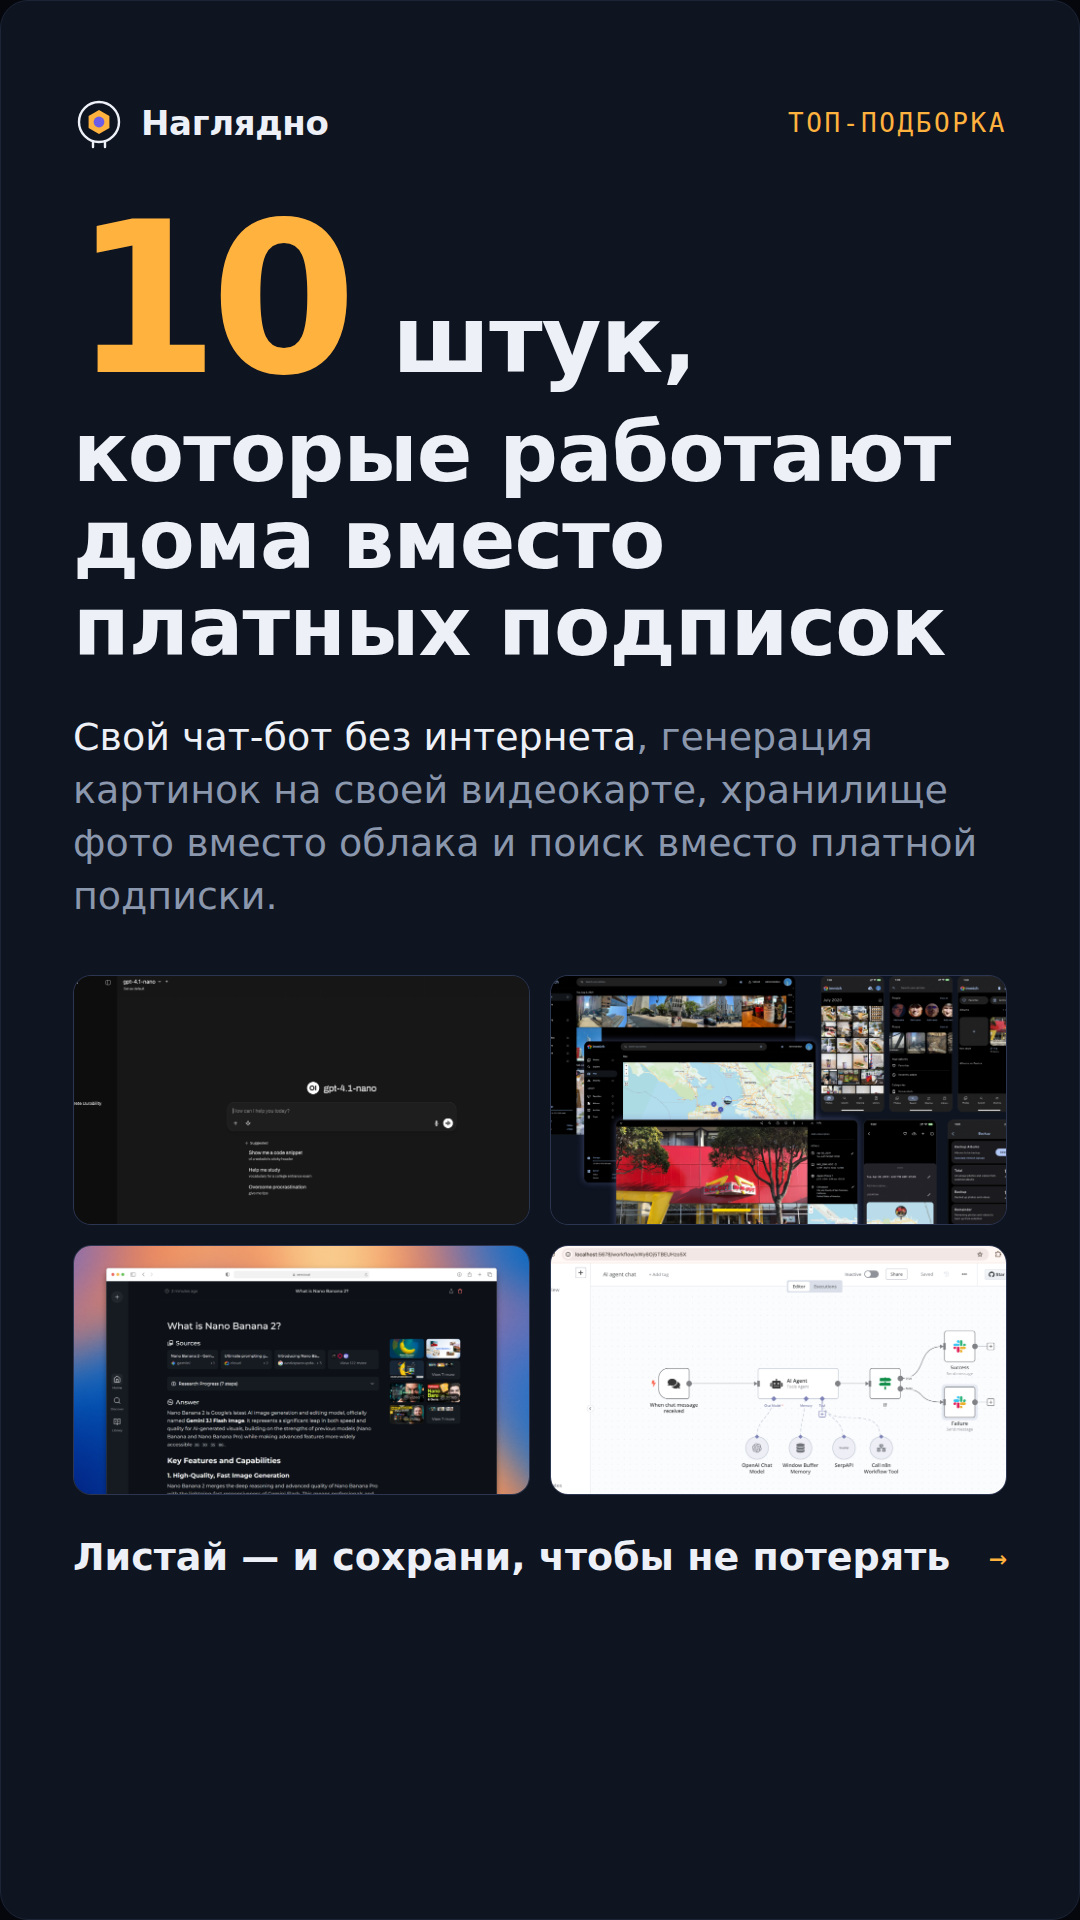
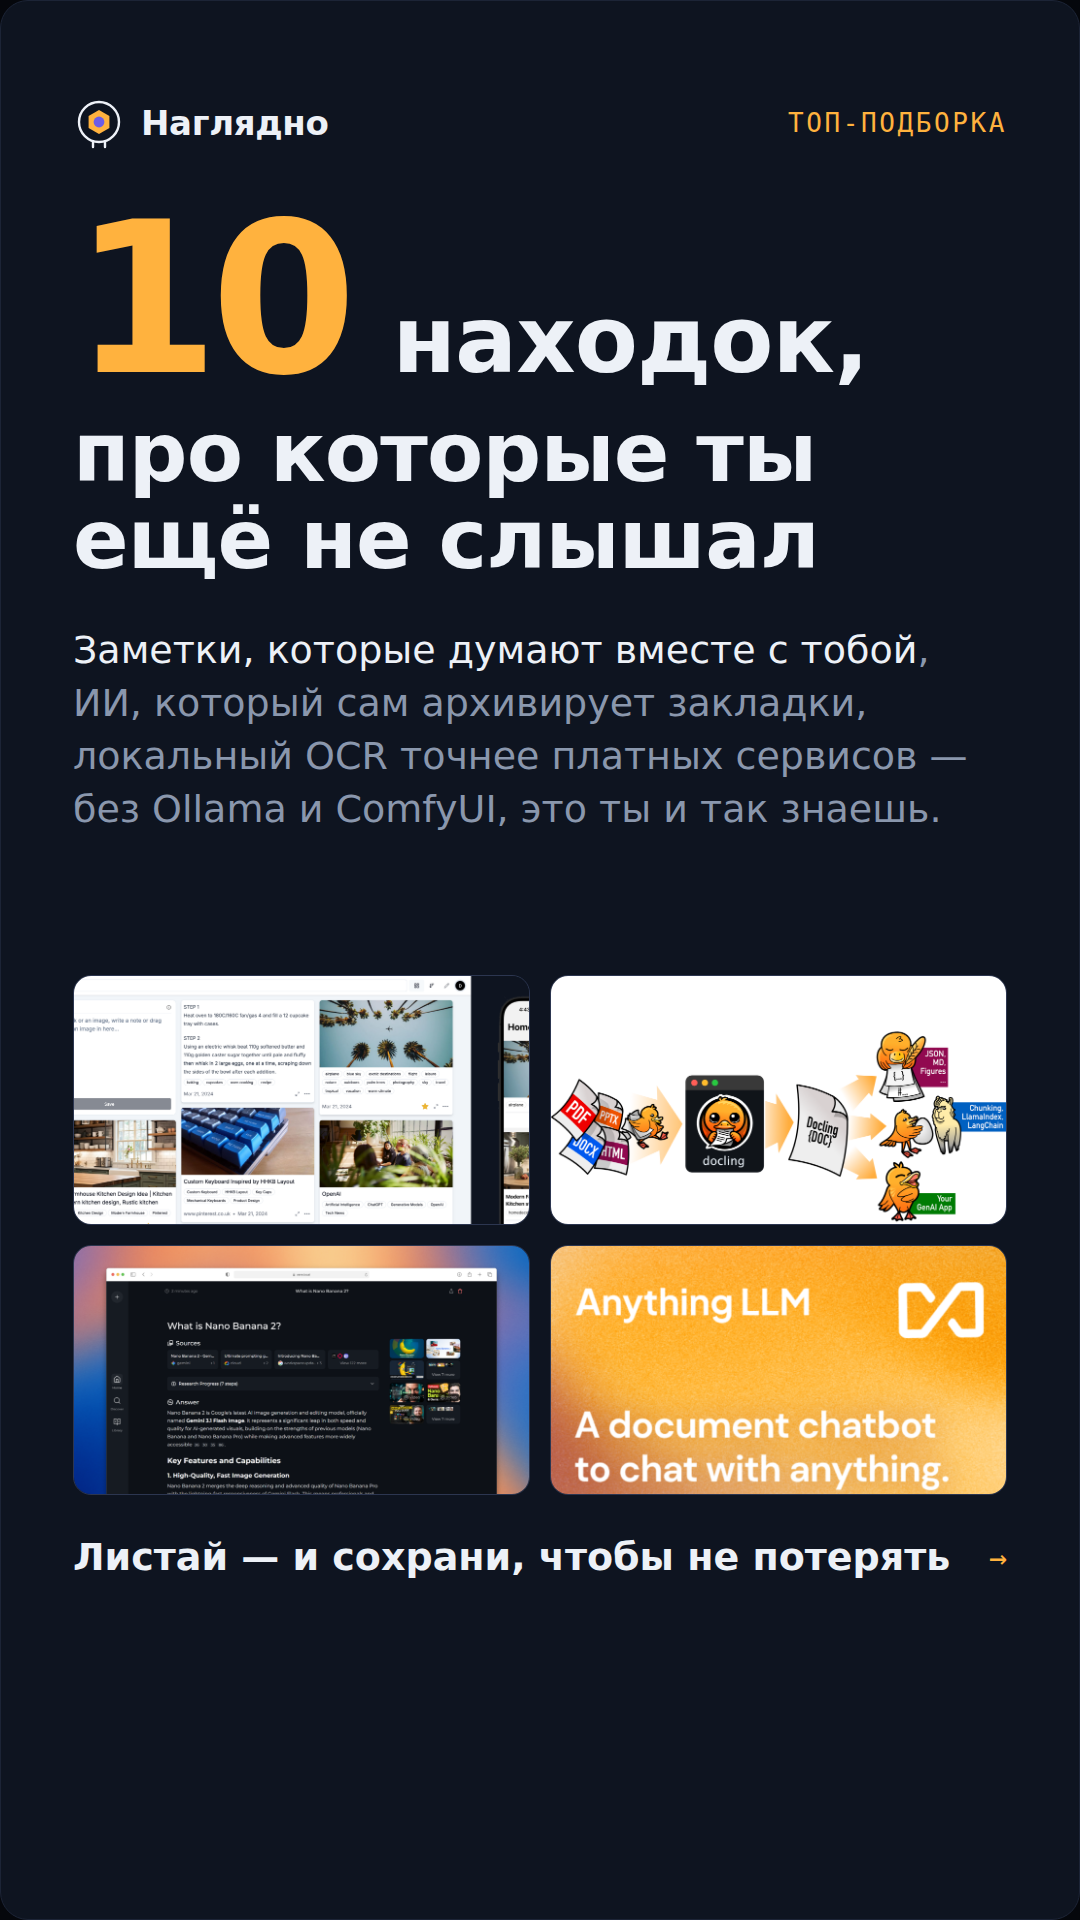
Заменить выпуск на менее известные локальные ИИ-находки
Ollama, ComfyUI, whisper.cpp, n8n, Immich, Open WebUI, Fooocus,
Jan, LocalSend, Paperless-ngx — всё это самые растиражированные
проекты в опенсорс-ИИ, их видел каждый, кто гуглил тему хоть раз.
Канал обещает вау-эффект открытия, а не пересказ известного.

Заменены на Reor (заметки со смысловыми связями), Docling
(документы в структурированный текст), Surya (OCR для любого
языка и разметки), Karakeep (ИИ сам архивирует и тегирует
закладки), Bark (речь с интонацией). Piper, Khoj, OpenHands,
Vane и AnythingLLM оставлены — они действительно менее известны.

Claude-Session: https://claude.ai/code/session_01DzVTpoES8dbpXif4hazhAx

Changed region(s): [[0.0611, 0.1562, 0.8861, 0.4688], [0.0611, 0.5, 0.9472, 0.7812]]

diff --git a/cards/local-ai.html b/cards/local-ai.html
@@ -113,44 +113,44 @@ const MASCOT = `<svg class="eye" viewBox="0 0 52 52" fill="none">
 
 const CARDS = [
   {
-    owner: 'ollama', repo: 'ollama',
-    clarity: ['🟢', '3 сек'],
-    desc: 'Запускает языковые модели прямо на твоём компьютере — без интернета и без подписки. Одна команда, и на ноутбуке работает свой чат-бот, а переписка никуда не уходит.',
-    icon: 'local',
-    tags: ['#локально', '#без-подписки', '#открытый-код'],
-    repoline: 'github.com/ollama/ollama · лицензия MIT',
-  },
-  {
-    owner: 'open-webui', repo: 'open-webui',
-    clarity: ['🟢', '3 сек'],
-    desc: 'Даёт локальной модели привычный вид: чаты, история, папки, загрузка файлов. Выглядит и работает как знакомый чат-бот, только всё лежит у тебя.',
-    shot: 'shots-ai/open-webui.png',
-    tags: ['#интерфейс', '#локально', '#свой-сервер'],
-    repoline: 'github.com/open-webui/open-webui · своя лицензия, не классический опенсорс',
-  },
-  {
-    owner: 'comfyanonymous', repo: 'ComfyUI',
+    owner: 'reorproject', repo: 'reor',
     clarity: ['🟡', '15 сек'],
-    desc: 'Генерация картинок и видео на своей видеокарте. Собираешь процесс из блоков, как схему, — и получаешь то, за что обычно платят помесячно.',
-    icon: 'image',
-    tags: ['#картинки', '#видеокарта', '#открытый-код'],
-    repoline: 'github.com/comfyanonymous/ComfyUI · лицензия GPL',
+    desc: 'Заметки, которые сами связывают себя по смыслу — без тегов и папок. Спрашиваешь у своих же записей, как у чат-бота, а всё остаётся на диске.',
+    icon: 'notes',
+    tags: ['#заметки', '#локально', '#открытый-код'],
+    repoline: 'github.com/reorproject/reor · лицензия AGPL-3.0',
   },
   {
-    owner: 'ggml-org', repo: 'whisper.cpp',
-    clarity: ['🟢', '3 сек'],
-    desc: 'Расшифровывает речь в текст прямо на устройстве — лекцию, созвон, голосовое. Написано так, что шустро работает даже на ноутбуке без мощной видеокарты.',
-    icon: 'wave',
-    tags: ['#расшифровка', '#локально', '#открытый-код'],
-    repoline: 'github.com/ggml-org/whisper.cpp · лицензия MIT',
+    owner: 'docling-project', repo: 'docling',
+    clarity: ['🟡', '15 сек'],
+    desc: 'Скармливаешь PDF, PPTX или скан — получаешь чистый структурированный текст с таблицами и картинками на местах. Библиотека для тех, кто готовит документы под нейросеть.',
+    shot: 'shots-ai/docling.png', light: true,
+    tags: ['#документы', '#открытый-код', '#для-разработчиков'],
+    repoline: 'github.com/docling-project/docling · лицензия MIT',
   },
   {
-    owner: 'immich-app', repo: 'immich',
+    owner: 'VikParuchuri', repo: 'surya',
+    clarity: ['🟠', 'надо вникнуть'],
+    desc: 'Распознаёт текст на фото и сканах в любой раскладке страницы и почти любом языке — включая рукописный. Точнее многих платных OCR-сервисов, и работает у тебя локально.',
+    icon: 'scan',
+    tags: ['#распознавание-текста', '#локально', '#открытый-код'],
+    repoline: 'github.com/VikParuchuri/surya · лицензия GPL-3.0',
+  },
+  {
+    owner: 'karakeep-app', repo: 'karakeep',
     clarity: ['🟢', '3 сек'],
-    desc: 'Своё хранилище фото на домашнем сервере: автозагрузка с телефона, поиск по лицам и объектам, альбомы. Делает то же, за что берут деньги за облако.',
-    shot: 'shots-ai/immich.png',
-    tags: ['#фото', '#свой-сервер', '#открытый-код'],
-    repoline: 'github.com/immich-app/immich · лицензия AGPL-3.0',
+    desc: 'Сохраняешь ссылку, скриншот или заметку — нейросеть сама расставляет теги и делает архивную копию страницы, чтобы ссылка не умерла. Своя память вместо платного Pocket.',
+    shot: 'shots-ai/karakeep.png',
+    tags: ['#закладки', '#свой-сервер', '#открытый-код'],
+    repoline: 'github.com/karakeep-app/karakeep · лицензия AGPL-3.0',
+  },
+  {
+    owner: 'suno-ai', repo: 'bark',
+    clarity: ['🟢', '3 сек'],
+    desc: 'Генерирует речь с интонацией, вздохами и паузами — не механический голос, а что-то похожее на живую озвучку. Может и смех вставить, если попросишь текстом.',
+    icon: 'speaker',
+    tags: ['#озвучка', '#открытый-код', '#генерация-звука'],
+    repoline: 'github.com/suno-ai/bark · лицензия MIT',
   },
   {
     owner: 'OHF-Voice', repo: 'piper1-gpl',
@@ -161,12 +161,12 @@ const CARDS = [
     repoline: 'github.com/OHF-Voice/piper1-gpl · лицензия GPL',
   },
   {
-    owner: 'n8n-io', repo: 'n8n',
+    owner: 'khoj-ai', repo: 'khoj',
     clarity: ['🟡', '15 сек'],
-    desc: 'Связывает сервисы между собой без программирования: письмо пришло — задача создалась, файл появился — сообщение ушло. Можно поднять у себя и не платить за облако.',
-    shot: 'shots-ai/n8n.png',
-    tags: ['#автоматизация', '#свой-сервер', '#без-кода'],
-    repoline: 'github.com/n8n-io/n8n · лицензия fair-code, не классический опенсорс',
+    desc: 'Свой ИИ-помощник, который читает твои заметки, PDF и почту и отвечает по ним — как личный секретарь, который помнит всё, что ты когда-либо записал.',
+    icon: 'brain',
+    tags: ['#ии-помощник', '#локально', '#открытый-код'],
+    repoline: 'github.com/khoj-ai/khoj · лицензия AGPL-3.0',
   },
   {
     owner: 'All-Hands-AI', repo: 'OpenHands',
@@ -195,6 +195,38 @@ const CARDS = [
 ];
 
 const ICONS = {
+  notes: `<svg viewBox="0 0 300 300" fill="none">
+    <rect x="70" y="46" width="160" height="208" rx="14" stroke="#FFB23E" stroke-width="9"/>
+    <g stroke="#8A97AD" stroke-width="7" stroke-linecap="round">
+      <path d="M96 96h108M96 126h108M96 156h74"/>
+    </g>
+    <circle cx="112" cy="200" r="8" fill="#6C5CE7"/>
+    <circle cx="150" cy="212" r="8" fill="#6C5CE7"/>
+    <circle cx="186" cy="196" r="8" fill="#6C5CE7"/>
+    <path d="M112 200L150 212L186 196" stroke="#6C5CE7" stroke-width="6" fill="none"/>
+  </svg>`,
+  scan: `<svg viewBox="0 0 300 300" fill="none">
+    <path d="M60 92V64a12 12 0 0112-12h28M240 92V64a12 12 0 00-12-12h-28M60 208v28a12 12 0 0012 12h28M240 208v28a12 12 0 01-12 12h-28" stroke="#FFB23E" stroke-width="10" stroke-linecap="round"/>
+    <line x1="66" y1="150" x2="234" y2="150" stroke="#6C5CE7" stroke-width="8" stroke-linecap="round"/>
+    <g stroke="#8A97AD" stroke-width="7" stroke-linecap="round">
+      <path d="M96 110h60M96 190h108"/>
+    </g>
+  </svg>`,
+  speaker: `<svg viewBox="0 0 300 300" fill="none">
+    <path d="M64 118h38l52-40v148l-52-40H64z" fill="#FFB23E"/>
+    <path d="M178 122c10 12 10 44 0 56" stroke="#6C5CE7" stroke-width="9" stroke-linecap="round" fill="none"/>
+    <path d="M204 100c20 24 20 76 0 100" stroke="#6C5CE7" stroke-width="9" stroke-linecap="round" fill="none"/>
+    <path d="M228 78c30 36 30 108 0 144" stroke="#8A97AD" stroke-width="8" stroke-linecap="round" fill="none"/>
+  </svg>`,
+  brain: `<svg viewBox="0 0 300 300" fill="none">
+    <path d="M118 66c-30 0-52 22-52 50 0 8 2 16 5 22-14 8-23 24-23 42 0 26 21 46 47 46h6" stroke="#FFB23E" stroke-width="9" stroke-linecap="round" fill="none"/>
+    <path d="M182 66c30 0 52 22 52 50 0 8-2 16-5 22 14 8 23 24 23 42 0 26-21 46-47 46h-6" stroke="#FFB23E" stroke-width="9" stroke-linecap="round" fill="none"/>
+    <line x1="150" y1="60" x2="150" y2="230" stroke="#FFB23E" stroke-width="9" stroke-linecap="round"/>
+    <circle cx="118" cy="120" r="9" fill="#6C5CE7"/>
+    <circle cx="182" cy="150" r="9" fill="#6C5CE7"/>
+    <circle cx="130" cy="190" r="9" fill="#6C5CE7"/>
+  </svg>`,
+
   local: `<svg viewBox="0 0 300 300" fill="none">
     <rect x="40" y="66" width="220" height="150" rx="16" stroke="#FFB23E" stroke-width="9"/>
     <path d="M118 216h64l10 30h-84z" fill="#FFB23E"/>
@@ -282,16 +314,16 @@ const COVER = `<div class="card cover">
     <span class="rubric">Топ-подборка</span>
   </div>
   <div class="hero">
-    <span class="big">10</span><span class="unit">штук,</span>
+    <span class="big">10</span><span class="unit">находок,</span>
   </div>
-  <h2>которые работают дома вместо платных подписок</h2>
-  <p class="sub"><b>Свой чат-бот без интернета</b>, генерация картинок на своей видеокарте,
-     хранилище фото вместо облака и поиск вместо платной подписки.</p>
+  <h2>про которые ты ещё не слышал</h2>
+  <p class="sub"><b>Заметки, которые думают вместе с тобой</b>, ИИ, который сам архивирует
+     закладки, локальный OCR точнее платных сервисов — без Ollama и ComfyUI, это ты и так знаешь.</p>
   <div class="grid">
-    <div><img src="shots-ai/open-webui.png" alt=""></div>
-    <div><img src="shots-ai/immich.png" alt=""></div>
+    <div><img src="shots-ai/karakeep.png" alt=""></div>
+    <div><img src="shots-ai/docling.png" alt=""></div>
     <div><img src="shots-ai/vane.png" alt=""></div>
-    <div><img src="shots-ai/n8n.png" alt=""></div>
+    <div><img src="shots-ai/anything-llm.png" alt=""></div>
   </div>
   <div class="swipe"><b>Листай — и сохрани, чтобы не потерять</b><span>→</span></div>
   <div class="safe"></div>
